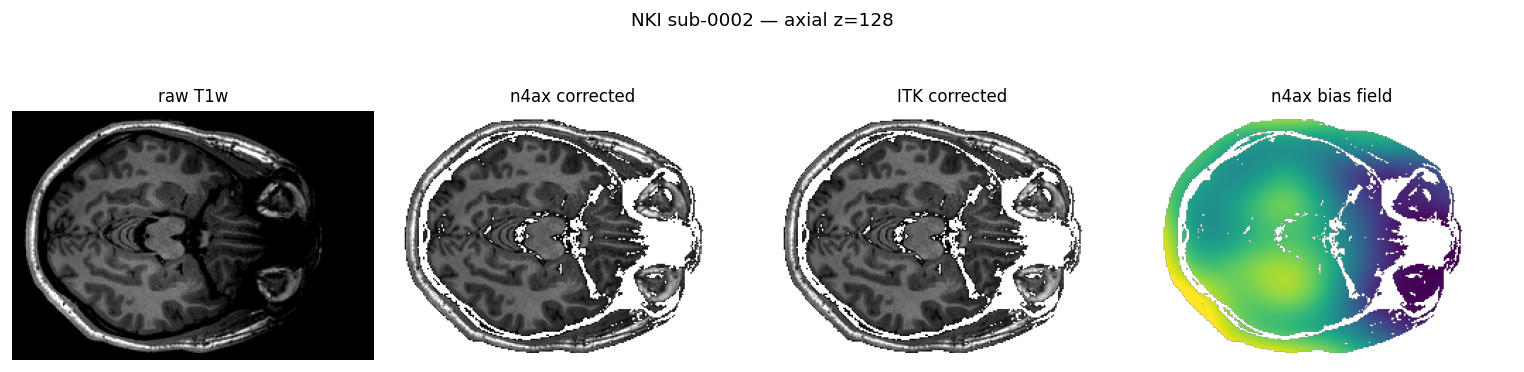
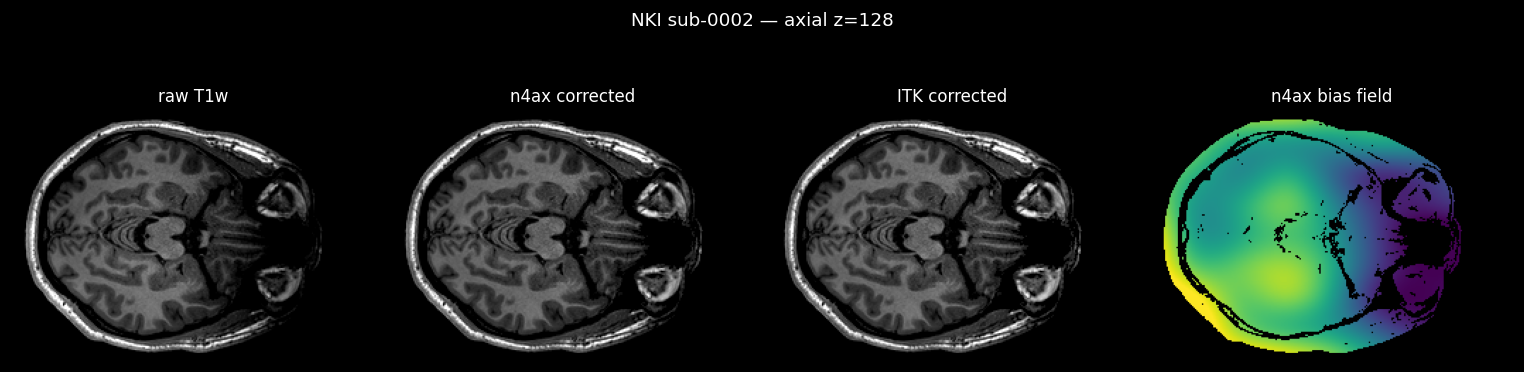
figures: black background for MRI panels (no white bg)

diff --git a/scripts/bench_nki.py b/scripts/bench_nki.py
@@ -124,55 +124,57 @@ def main():
 
 
 def _figures(fig_data, tag):
+    from copy import copy
+
     import matplotlib
 
     matplotlib.use("Agg")
     import matplotlib.pyplot as plt
 
-    # per-subject 4-panel
+    def black_cmap(name):  # masked / out-of-brain voxels render black, not white
+        c = copy(plt.get_cmap(name))
+        c.set_bad("black")
+        return c
+
+    gray, viri = black_cmap("gray"), black_cmap("viridis")
+
+    def draw(ax, im2d, m2d, cmap, masked=True):
+        d = np.ma.masked_where(~m2d, im2d) if masked else im2d
+        vlo, vhi = (np.percentile(im2d[m2d], 1), np.percentile(im2d[m2d], 99)) if m2d.any() else (0, 1)
+        ax.set_facecolor("black")
+        ax.imshow(d, cmap=cmap, vmin=vlo, vmax=vhi)
+        ax.axis("off")
+
+    # per-subject panels: raw | n4ax | ITK | bias
     for sub, vol, corr, itk, bias, mask in fig_data:
         zc = vol.shape[0] // 2
         m = mask[zc]
-
-        def show(ax, im, title, cmap="gray", vlo=None, vhi=None):
-            d = np.ma.masked_where(~m, im[zc]) if title != "raw T1w" else im[zc]
-            if vlo is None:
-                vlo, vhi = (np.percentile(im[zc][m], 1), np.percentile(im[zc][m], 99)) if m.any() else (0, 1)
-            ax.imshow(d, cmap=cmap, vmin=vlo, vmax=vhi)
-            ax.set_title(title, fontsize=10)
-            ax.axis("off")
-
-        panels = [("raw T1w", vol, "gray", None, None), ("n4ax corrected", corr, "gray", None, None)]
+        panels = [("raw T1w", vol[zc], gray, False), ("n4ax corrected", corr[zc], gray, True)]
         if itk is not None:
-            panels.append(("ITK corrected", itk, "gray", None, None))
-        panels.append(("n4ax bias field", np.exp(bias), "viridis", None, None))
-        fig, axes = plt.subplots(1, len(panels), figsize=(3.2 * len(panels), 3.4))
-        for ax, (ti, im, cm, lo, hi) in zip(axes, panels):
-            show(ax, im, ti, cm, lo, hi)
-        fig.suptitle(f"NKI {sub} — axial z={zc}", fontsize=11)
+            panels.append(("ITK corrected", itk[zc], gray, True))
+        panels.append(("n4ax bias field", np.exp(bias[zc]), viri, True))
+        fig, axes = plt.subplots(1, len(panels), figsize=(3.2 * len(panels), 3.4), facecolor="black")
+        for ax, (ti, im2d, cm, mk) in zip(axes, panels):
+            draw(ax, im2d, m, cm, mk)
+            ax.set_title(ti, fontsize=10, color="white")
+        fig.suptitle(f"NKI {sub} — axial z={zc}", fontsize=11, color="white")
         fig.tight_layout(rect=[0, 0, 1, 0.95])
-        fig.savefig(OUT / f"nki_{sub}_{tag}.png", dpi=120, bbox_inches="tight")
+        fig.savefig(OUT / f"nki_{sub}_{tag}.png", dpi=120, bbox_inches="tight", facecolor="black")
         plt.close(fig)
 
-    # multi-subject grid: raw vs n4ax-corrected
+    # multi-subject grid: raw (top) vs n4ax-corrected (bottom)
     n = len(fig_data)
-    fig, axes = plt.subplots(2, n, figsize=(3 * n, 6))
+    fig, axes = plt.subplots(2, n, figsize=(3 * n, 6), facecolor="black")
     axes = np.atleast_2d(axes)
     for j, (sub, vol, corr, itk, bias, mask) in enumerate(fig_data):
         zc = vol.shape[0] // 2
         m = mask[zc]
-        vlo, vhi = (np.percentile(vol[zc][m], 1), np.percentile(vol[zc][m], 99))
-        axes[0, j].imshow(vol[zc], cmap="gray", vmin=vlo, vmax=vhi)
-        axes[0, j].set_title(sub, fontsize=9)
-        axes[0, j].axis("off")
-        clo, chi = (np.percentile(corr[zc][m], 1), np.percentile(corr[zc][m], 99))
-        axes[1, j].imshow(np.ma.masked_where(~m, corr[zc]), cmap="gray", vmin=clo, vmax=chi)
-        axes[1, j].axis("off")
-    axes[0, 0].set_ylabel("raw", fontsize=11)
-    axes[1, 0].set_ylabel("n4ax", fontsize=11)
-    fig.suptitle("NKI raw (top) vs n4ax-corrected (bottom)", fontsize=12)
-    fig.tight_layout(rect=[0, 0, 1, 0.96])
-    fig.savefig(OUT / f"nki_grid_{tag}.png", dpi=120, bbox_inches="tight")
+        draw(axes[0, j], vol[zc], m, gray, masked=False)
+        axes[0, j].set_title(sub, fontsize=9, color="white")
+        draw(axes[1, j], corr[zc], m, gray, masked=True)
+    fig.text(0.5, 0.965, "NKI raw (top) vs n4ax-corrected (bottom)", ha="center", fontsize=12, color="white")
+    fig.tight_layout(rect=[0, 0, 1, 0.95])
+    fig.savefig(OUT / f"nki_grid_{tag}.png", dpi=120, bbox_inches="tight", facecolor="black")
     plt.close(fig)
     print(f"saved figures to {OUT}")
 
